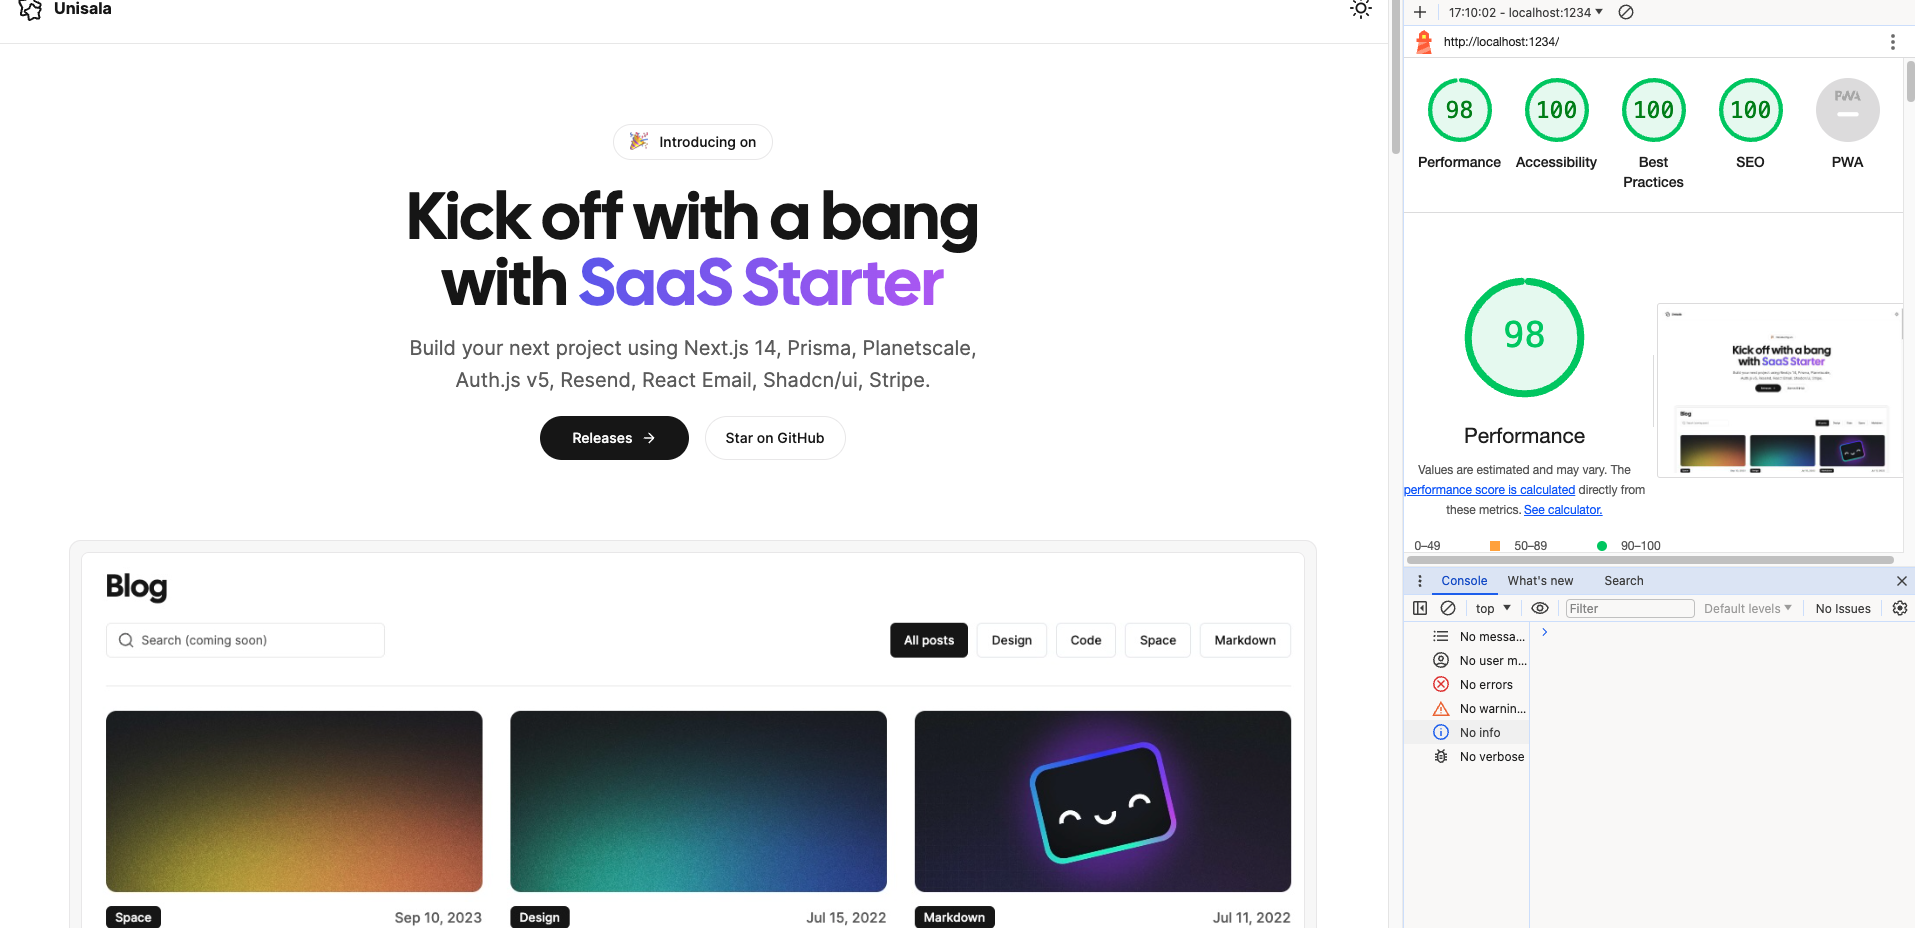
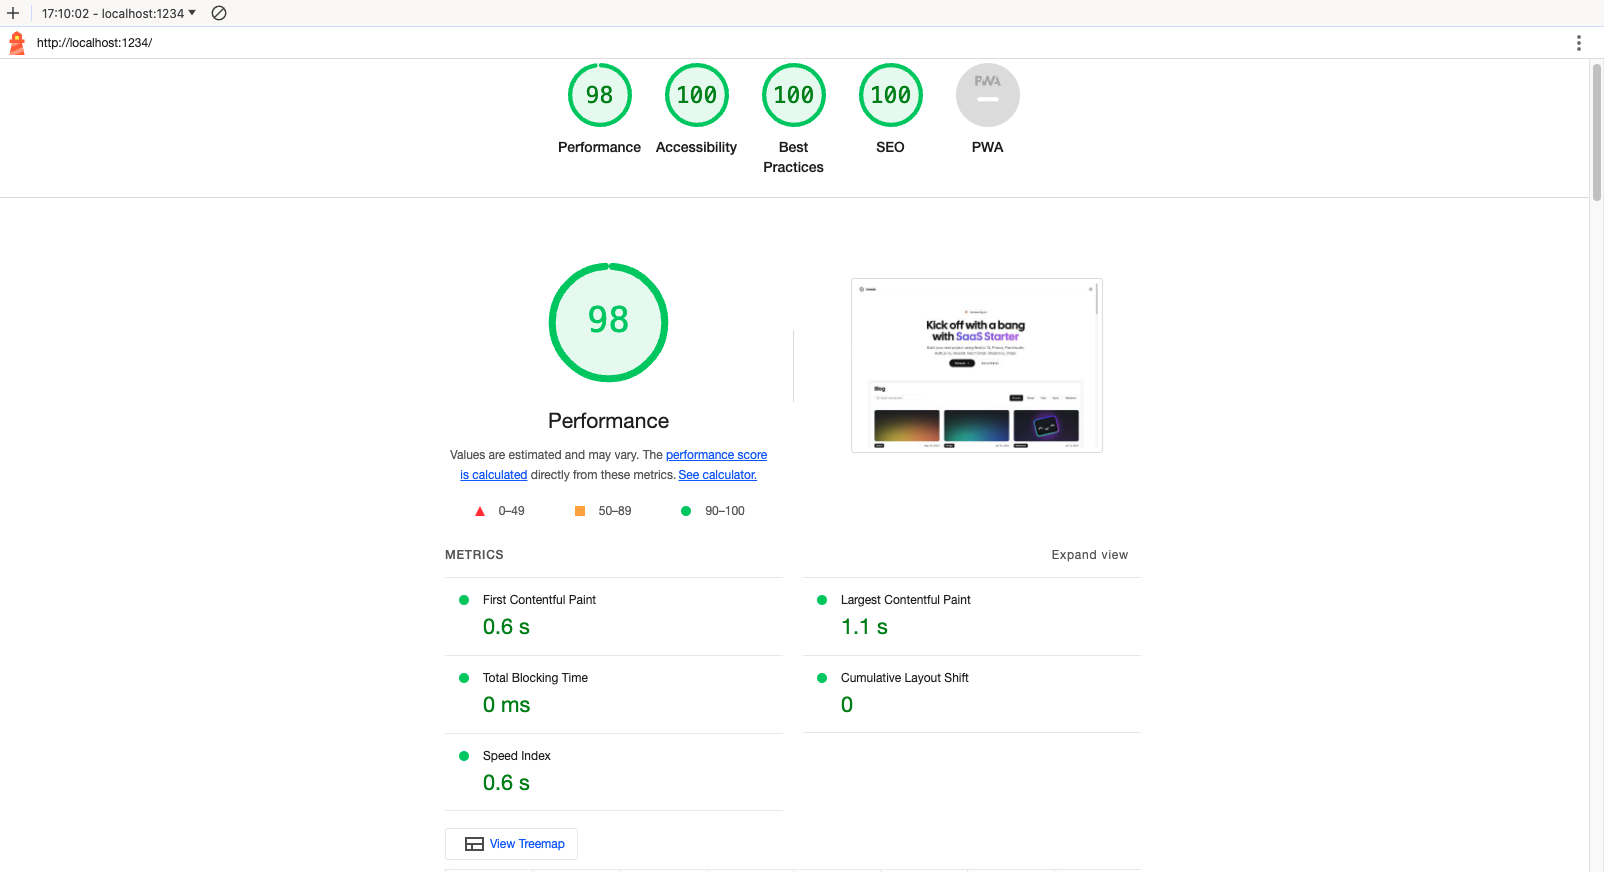
docs(readme updated): adding product image

diff --git a/README.md b/README.md
@@ -40,19 +40,18 @@ Optimized production build totals only 178kb, ensuring quick load times and an e
 
 - Loads in less than 3 seconds on a fast 3G network.
 - Loads in less than 10 seconds on a slow 3G network.
-
-
-
 ![blog](public/stats.png)
+
 
 ## Lighthouse Report
 Lighthouse score of 100, indicating that it meets the highest standards in performance, accessibility, best practices, and SEO. This makes it an excellent choice for developers looking to build high-quality web applications.
 ![blog](public/lighthouse.png)
 
-
 ## Component Diagram
 ![blog](public/AstroLayoutDiagram.drawio.svg)
 
+## Application Design
+![blog](public/screenshot.png)
 
 Clone this repository to get started with your project:
 
